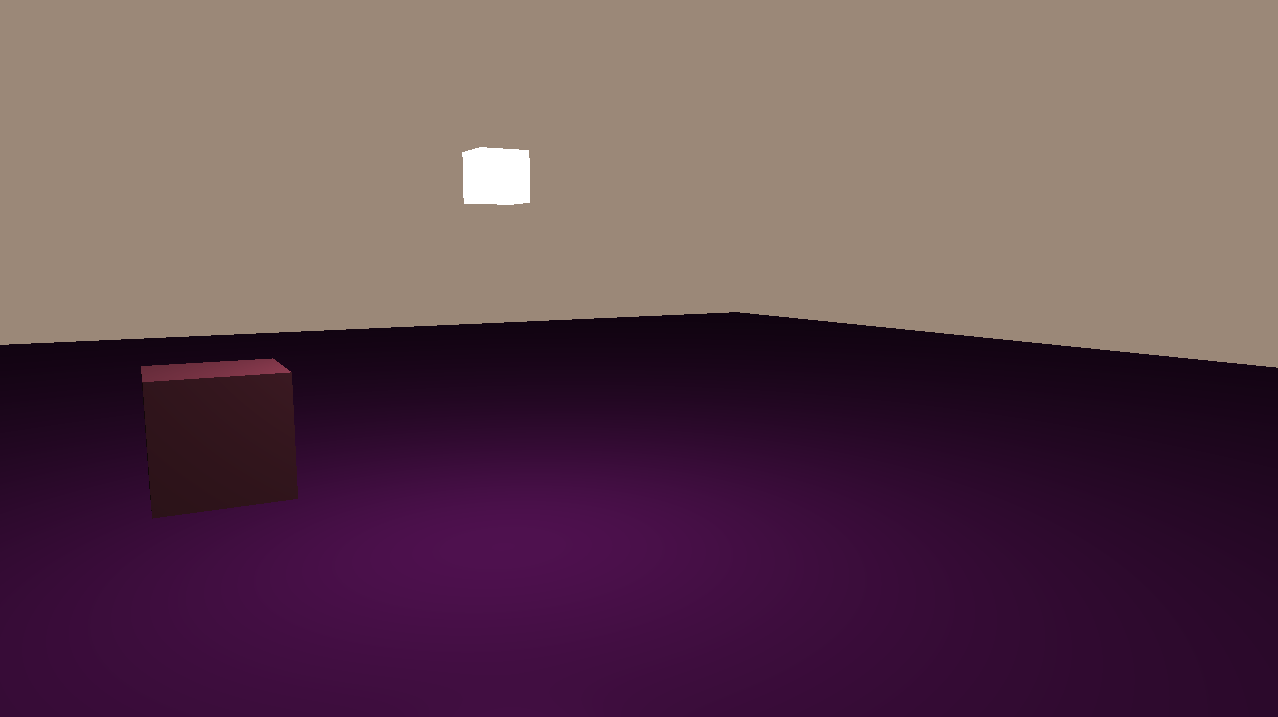
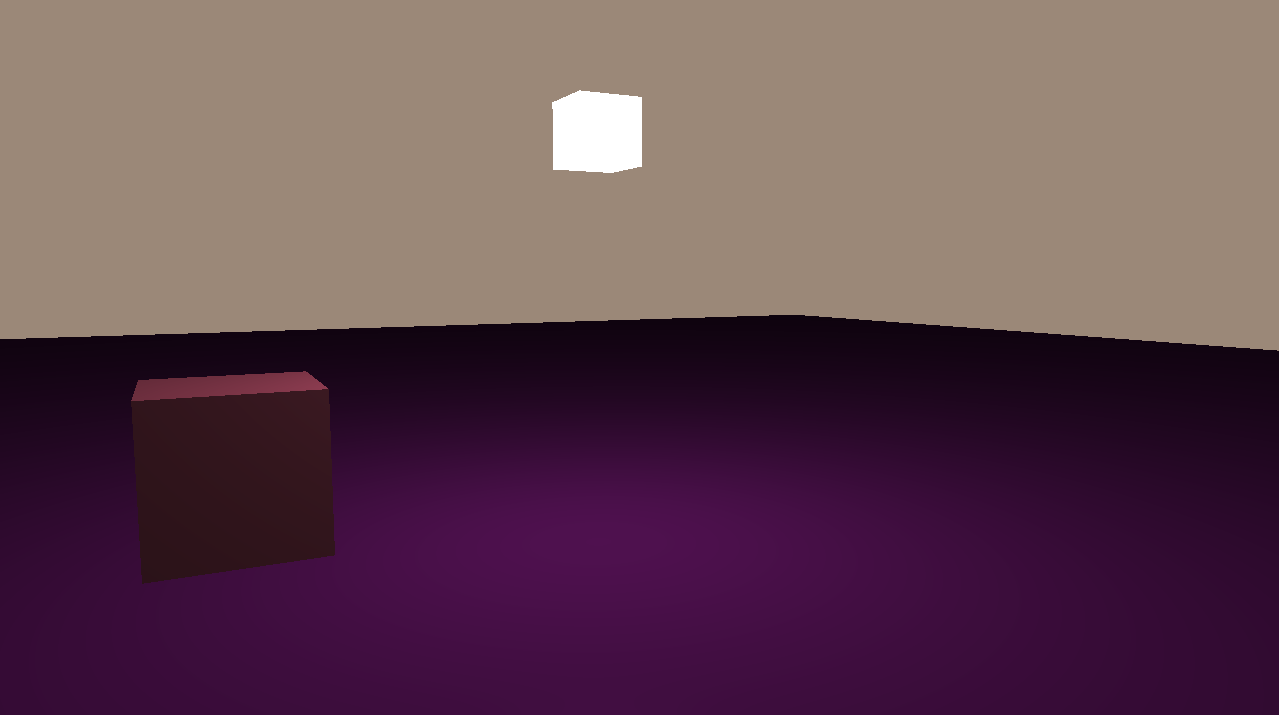
post processing

diff --git a/main.cpp b/main.cpp
@@ -37,12 +37,12 @@ int main(){
 	std::vector<Vertex> lightVertices;
 	std::vector<glm::uvec3> lightIndices;
 	//Floor
-	vertices.push_back({glm::vec3(-1.0f, -1.0f, 1.001f), glm::vec3(0.0f, 1.0f, 0.0f)});
-	vertices.push_back({glm::vec3(-1.0f, 1.0f, 1.001f), glm::vec3(0.0f, 1.0f, 0.0f)});
-	vertices.push_back({glm::vec3(1.0f, -1.0f, 1.001f), glm::vec3(0.0f, 1.0f, 0.0f)});
-	vertices.push_back({glm::vec3(-1.0f, 1.0f, 1.001f), glm::vec3(0.0f, 1.0f, 0.0f)});
-	vertices.push_back({glm::vec3(1.0f, -1.0f, 1.001f), glm::vec3(0.0f, 1.0f, 0.0f)});
-	vertices.push_back({glm::vec3(1.0f, 1.0f, 1.001f), glm::vec3(0.0f, 1.0f, 0.0f)});
+	vertices.push_back({glm::vec3(-1.0f, -1.0f, 0.501f), glm::vec3(0.0f, 1.0f, 0.0f)});
+	vertices.push_back({glm::vec3(-1.0f, 1.0f, 0.501f), glm::vec3(0.0f, 1.0f, 0.0f)});
+	vertices.push_back({glm::vec3(1.0f, -1.0f, 0.501f), glm::vec3(0.0f, 1.0f, 0.0f)});
+	vertices.push_back({glm::vec3(-1.0f, 1.0f, 0.501f), glm::vec3(0.0f, 1.0f, 0.0f)});
+	vertices.push_back({glm::vec3(1.0f, -1.0f, 0.501f), glm::vec3(0.0f, 1.0f, 0.0f)});
+	vertices.push_back({glm::vec3(1.0f, 1.0f, 0.501f), glm::vec3(0.0f, 1.0f, 0.0f)});
 
 	vertices.push_back({glm::vec3(-0.5f, -0.5f, -0.5f), glm::vec3(0.0f, 0.0f, -1.0f)});
 	vertices.push_back({glm::vec3(0.5f, -0.5f, -0.5f), glm::vec3(0.0f, 0.0f, -1.0f)});
@@ -216,6 +216,9 @@ int main(){
 
 	glTexParameteri(GL_TEXTURE_2D, GL_TEXTURE_MIN_FILTER, GL_LINEAR);
 	glTexParameteri(GL_TEXTURE_2D, GL_TEXTURE_MAG_FILTER, GL_LINEAR);
+	glTexParameteri(GL_TEXTURE_2D, GL_TEXTURE_WRAP_S, GL_CLAMP_TO_EDGE); 
+	glTexParameteri(GL_TEXTURE_2D, GL_TEXTURE_WRAP_T, GL_CLAMP_TO_EDGE); 
+
 
 	glFramebufferTexture2D(GL_FRAMEBUFFER, GL_COLOR_ATTACHMENT0, GL_TEXTURE_2D, texture, 0);
 	glBindTexture(GL_TEXTURE_2D, 0);
@@ -290,6 +293,15 @@ int main(){
 	float speed;
 	Uint32 mouseState;
 
+	std::vector<bool*> effects;
+	bool inverse = false;
+	bool blur = false;
+
+	effects.push_back(&inverse);
+	effects.push_back(&blur);
+	GLint inverseLoc = glGetUniformLocation(fboShader.ID, "inverse");
+	GLint blurLoc = glGetUniformLocation(fboShader.ID, "blur");
+
 	while(isRunning){
 		Uint32 currentFrame = SDL_GetTicks();
 		deltaTime = (currentFrame - lastFrame) / 1000.0f;
@@ -323,6 +335,21 @@ int main(){
 						cameraPos -= glm::cross(cameraFront, cameraUp)*speed;
 					if(event.key.keysym.sym == SDLK_d)
 						cameraPos += glm::cross(cameraFront, cameraUp)*speed;
+					if(event.key.keysym.sym == SDLK_SPACE)
+						cameraPos += cameraUp*speed;
+					if(event.key.keysym.sym == SDLK_1)
+						for(int i = 0; i < effects.size(); i++)
+							if(i == 0)
+								*effects[i] = !*effects[i];
+							else
+								*effects[i] = false;
+					if(event.key.keysym.sym == SDLK_2)
+						for(int i = 0; i < effects.size(); i++)
+							if(i == 1)
+								*effects[i] = !*effects[i];
+							else
+								*effects[i] = false;
+						
 					break;
 				case SDL_MOUSEMOTION:
 					int x, y, offsetX, offsetY;
@@ -344,7 +371,9 @@ int main(){
 					direction.z = sin(glm::radians(yaw)) * cos(glm::radians(pitch));
 
 					cameraFront = glm::normalize(direction);
-				     	
+
+					//For screenshots
+					//cameraFront = glm::vec3(0.467069f, -0.101056f, -0.878427f);
 				     	break;
 				default:
 					break;	
@@ -383,6 +412,10 @@ int main(){
 		glBindVertexArray(fboVAO);
 		glDisable(GL_DEPTH_TEST);
 		glBindTexture(GL_TEXTURE_2D, texture);
+
+		glUniform1i(inverseLoc, inverse);
+		glUniform1i(blurLoc, blur);
+
 		glDrawArrays(GL_TRIANGLES, 0, 6);
 		
 		SDL_GL_SwapWindow(window);
